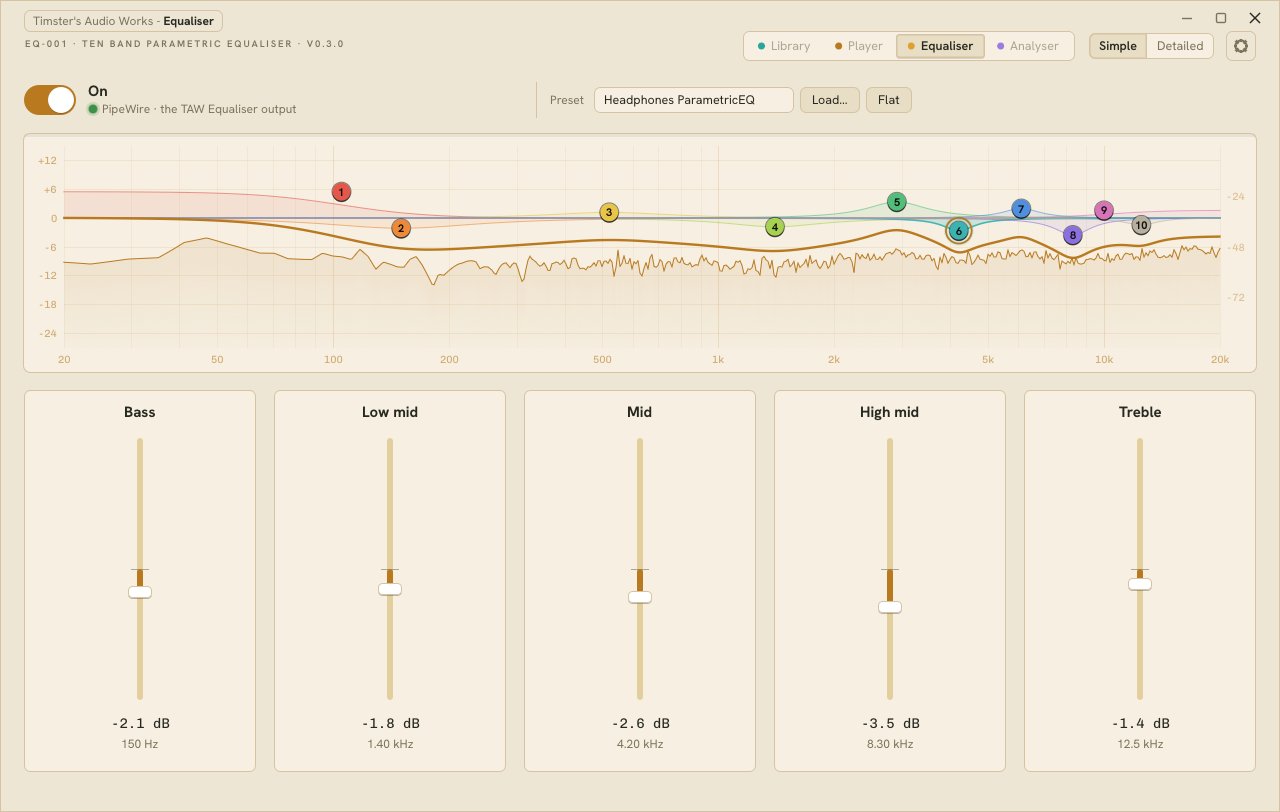
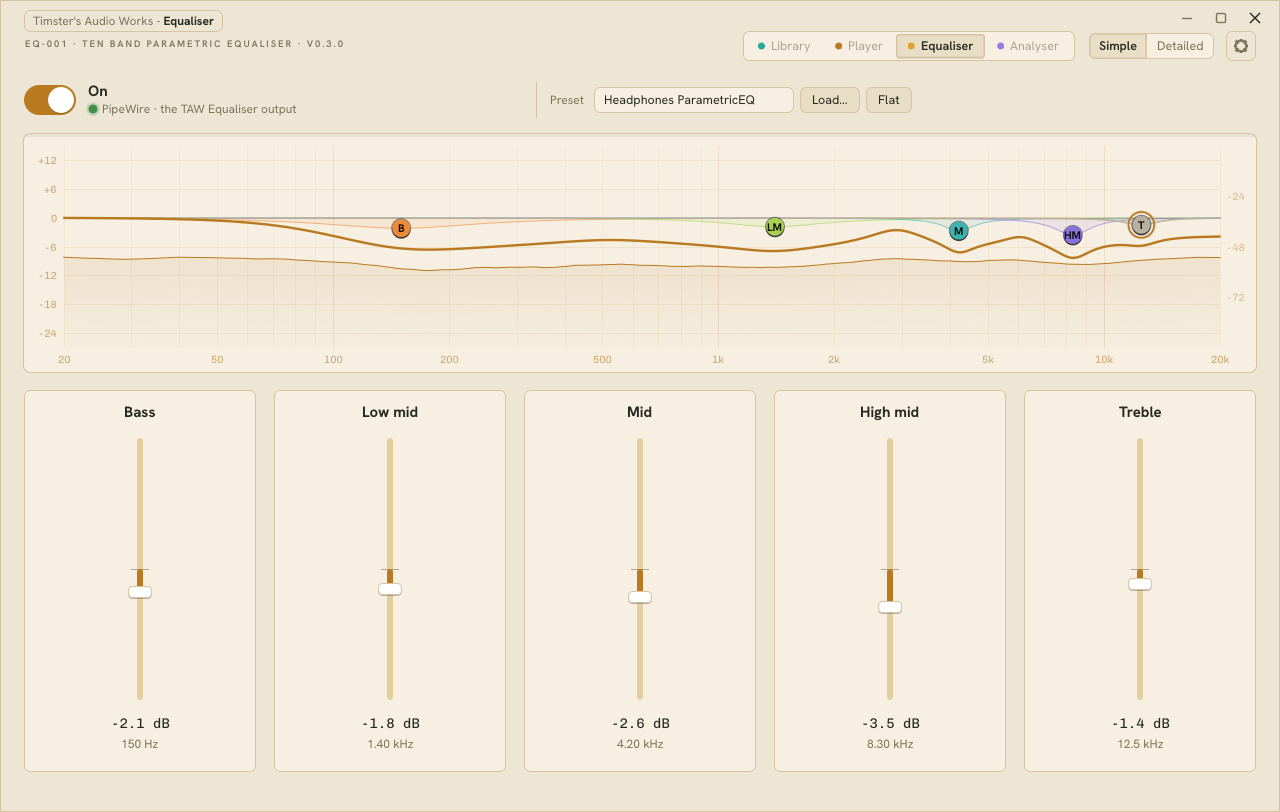
Gentler Auto preamp; Simple's graph shows only its five controls
- Auto preamp cut by the full height of any boost, so +6 dB at 16 kHz
  cost 6 dB everywhere. It now allows for the treble's headroom (none to
  2 kHz, then 3 dB an octave to 9 dB at 16 kHz: music's loud moments fall
  about that fast), so a treble lift costs little or nothing while bass
  and mid boosts are cut in full. Lifts for cut-only curves stay exact.
  It still depends only on the bands, and now settles when the mouse
  button is let go rather than at every step of a drag.
- Simple's graph shows only the five tone bands, named B, LM, M, HM and T,
  moving by gain alone (±12 dB, no Q or on/off); the total curve still
  includes every band. Its spectrum is smoothed over a third of an octave
  and moves more calmly.

Claude-Session: https://claude.ai/code/session_013QMTWfnBg92v7gTQTG2Jq5

diff --git a/src/ui/graph.rs b/src/ui/graph.rs
@@ -88,8 +88,12 @@ pub fn graph(
     sample_rate: f32,
     analyzer: Option<&Analyzer>,
     analyser_style: Option<spectrum::Style>,
+    // Simple view: only these bands (name, band) show and move, by gain
+    // alone, and the spectrum is smoothed.
+    tone: Option<&[(&str, usize)]>,
     t: &Tokens,
 ) -> GraphResult {
+    let shown = |i: usize| tone.is_none_or(|bands| bands.iter().any(|&(_, b)| b == i));
     let mut result = GraphResult { changed: None };
     hifi::display(ui.painter(), rect, t);
     let p = ui.painter().with_clip_rect(rect);
@@ -189,6 +193,18 @@ pub fn graph(
             levels.push(((db - SPEC_BOTTOM) / (SPEC_TOP - SPEC_BOTTOM)).clamp(0.0, 1.0));
             x += 2.0;
         }
+        if tone.is_some() {
+            // A third of an octave either side, so it reads as a shape.
+            let half = (plot.width() / (FREQ_MAX / FREQ_MIN).log2() / 3.0 / 2.0) as usize;
+            let raw: Vec<f32> = pts.iter().map(|p| p.y).collect();
+            let raw_levels = levels.clone();
+            for i in 0..pts.len() {
+                let (a, b) = (i.saturating_sub(half), (i + half + 1).min(pts.len()));
+                let n = (b - a) as f32;
+                pts[i].y = raw[a..b].iter().sum::<f32>() / n;
+                levels[i] = raw_levels[a..b].iter().sum::<f32>() / n;
+            }
+        }
         // Nothing to draw in silence but a line along the floor.
         let heard = levels.iter().any(|&l| l > 0.0);
         match analyser_style {
@@ -231,7 +247,14 @@ pub fn graph(
     let mut total = vec![s.preamp_db as f64; freqs.len()];
     for (bi, c) in coeffs.iter().enumerate() {
         let b = &s.bands[bi];
-        if !b.enabled || (b.kind.has_gain() && b.gain_db.abs() < 0.05) {
+        let hidden = !shown(bi);
+        if hidden || !b.enabled || (b.kind.has_gain() && b.gain_db.abs() < 0.05) {
+            // A hidden band still counts in the total.
+            if hidden {
+                for (i, &f) in freqs.iter().enumerate() {
+                    total[i] += c.magnitude_db(f, fs);
+                }
+            }
             continue;
         }
         let col = BAND_COLOURS[bi];
@@ -307,7 +330,7 @@ pub fn graph(
             .input(|i| i.pointer.press_origin())
             .or(resp.interact_pointer_pos())
         {
-            if let Some(i) = nearest(&ax, s, *selected, pos) {
+            if let Some(i) = nearest(&ax, s, *selected, pos, &shown) {
                 *selected = i;
                 let grab = ax.node(&s.bands[i]) - pos;
                 ui.data_mut(|d| d.insert_temp(drag_id, (i, grab)));
@@ -322,6 +345,11 @@ pub fn graph(
             let fine = ui.input(|i| i.modifiers.shift);
             let target = pos + grab;
             let b = &mut s.bands[i];
+            let (gmin, gmax) = if tone.is_some() {
+                (-12.0, 12.0)
+            } else {
+                (GAIN_MIN_DB, GAIN_MAX_DB)
+            };
             let (nf, ng) = if fine {
                 let d = resp.drag_delta() * 0.15;
                 (
@@ -331,9 +359,14 @@ pub fn graph(
             } else {
                 (ax.f(target.x), ax.db(target.y))
             };
-            let nf = snap3(nf.clamp(FREQ_MIN, FREQ_MAX));
+            // Simple's tone controls stay where they are and only lift or cut.
+            let nf = if tone.is_some() {
+                b.freq
+            } else {
+                snap3(nf.clamp(FREQ_MIN, FREQ_MAX))
+            };
             let ng = if b.kind.has_gain() {
-                ((ng * 10.0).round() / 10.0).clamp(GAIN_MIN_DB, GAIN_MAX_DB)
+                ((ng * 10.0).round() / 10.0).clamp(gmin, gmax)
             } else {
                 // Moving a cut filter's point up or down changes nothing.
                 b.gain_db
@@ -349,7 +382,7 @@ pub fn graph(
     if resp.drag_stopped() {
         ui.data_mut(|d| d.remove::<(usize, Vec2)>(drag_id));
     }
-    let hovered_node = pointer.and_then(|pos| nearest(&ax, s, *selected, pos));
+    let hovered_node = pointer.and_then(|pos| nearest(&ax, s, *selected, pos, &shown));
     if resp.clicked() {
         if let Some(i) = hovered_node {
             *selected = i;
@@ -361,14 +394,14 @@ pub fn graph(
             result.changed = Some(i);
         }
     }
-    if resp.secondary_clicked() {
+    if resp.secondary_clicked() && tone.is_none() {
         if let Some(i) = hovered_node {
             s.bands[i].enabled = !s.bands[i].enabled;
             *selected = i;
             result.changed = Some(i);
         }
     }
-    if resp.hovered() {
+    if resp.hovered() && tone.is_none() {
         let scroll = wheel(ui);
         if scroll != 0.0 {
             let i = hovered_node.unwrap_or(*selected);
@@ -392,8 +425,23 @@ pub fn graph(
     }
 
     // Points, selected one last so it sits on top.
-    let mut order: Vec<usize> = (0..NUM_BANDS).filter(|&i| i != *selected).collect();
-    order.push(*selected);
+    let mut order: Vec<usize> = (0..NUM_BANDS)
+        .filter(|&i| i != *selected && shown(i))
+        .collect();
+    if shown(*selected) {
+        order.push(*selected);
+    }
+    // Simple names its points: B, LM, M, HM, T.
+    let name = |i: usize| -> String {
+        match tone.and_then(|bands| bands.iter().find(|&&(_, b)| b == i)) {
+            Some((n, _)) => n
+                .split_whitespace()
+                .filter_map(|w| w.chars().next())
+                .collect::<String>()
+                .to_uppercase(),
+            None => (i + 1).to_string(),
+        }
+    };
     for &i in &order {
         let b = &s.bands[i];
         let c = ax.node(b);
@@ -415,7 +463,7 @@ pub fn graph(
                 &p,
                 c,
                 Align2::CENTER_CENTER,
-                &(i + 1).to_string(),
+                &name(i),
                 hifi::bold(11.0),
                 Color32::from_rgb(0x14, 0x10, 0x0e),
                 0.0,
@@ -427,7 +475,7 @@ pub fn graph(
                 &p,
                 c,
                 Align2::CENTER_CENTER,
-                &(i + 1).to_string(),
+                &name(i),
                 hifi::bold(11.0),
                 col,
                 0.0,
@@ -447,15 +495,19 @@ pub fn graph(
         } else {
             String::new()
         };
-        let label = format!(
-            "{} {} · {} Hz{} · Q {:.2}{}",
-            i + 1,
-            kind_name(b.kind),
-            fmt_freq(b.freq).replace('K', "k"),
-            gain,
-            b.q,
-            if b.enabled { "" } else { " · off" }
-        );
+        let hz = fmt_freq(b.freq).replace('K', "k");
+        let label = match tone.and_then(|bands| bands.iter().find(|&&(_, x)| x == i)) {
+            Some((n, _)) => format!("{n} · {hz} Hz{gain}"),
+            None => format!(
+                "{} {} · {} Hz{} · Q {:.2}{}",
+                i + 1,
+                kind_name(b.kind),
+                hz,
+                gain,
+                b.q,
+                if b.enabled { "" } else { " · off" }
+            ),
+        };
         let f = hifi::ui_font(12.5);
         let w = p.layout_no_wrap(label.clone(), f.clone(), t.text).size().x + 18.0;
         let c = ax.node(b);
@@ -510,9 +562,15 @@ pub fn kind_name(k: crate::dsp::FilterKind) -> &'static str {
 
 /// The band point under `pos`; the selected band wins ties so stacked
 /// points stay reachable.
-fn nearest(ax: &Axes, s: &EqSettings, selected: usize, pos: Pos2) -> Option<usize> {
+fn nearest(
+    ax: &Axes,
+    s: &EqSettings,
+    selected: usize,
+    pos: Pos2,
+    shown: &impl Fn(usize) -> bool,
+) -> Option<usize> {
     let mut best: Option<(usize, f32)> = None;
-    for i in 0..NUM_BANDS {
+    for i in (0..NUM_BANDS).filter(|&i| shown(i)) {
         let d = ax.node(&s.bands[i]).distance(pos) - if i == selected { 2.0 } else { 0.0 };
         if d <= NODE_R + 4.0 && best.is_none_or(|(_, bd)| d < bd) {
             best = Some((i, d));

diff --git a/crates/eq-core/src/dsp.rs b/crates/eq-core/src/dsp.rs
@@ -314,6 +314,24 @@ pub fn total_response_db(bands: &[BandParams], preamp_db: f32, freq: f64, sample
 /// in dB, between 20 Hz and 20 kHz. Each band's own frequency is checked
 /// too, so a narrow peak is never missed between sample points.
 pub fn peak_response_db(bands: &[BandParams], sample_rate: f64) -> f64 {
+    peak_over_allowance_db(bands, sample_rate, |_| 0.0)
+}
+
+/// How far above 0 dB the response may rise at `freq` before Auto preamp
+/// turns the level down for it, in dB. Music's loud moments carry much less
+/// in the top octaves than in the bass and mids (they fall about 3 dB an
+/// octave, like pink noise), so a treble boost has room that a bass boost
+/// doesn't: none up to 2 kHz, then 3 dB an octave, to 9 dB at 16 kHz.
+pub fn headroom_allowance_db(freq: f64) -> f64 {
+    (3.0 * (freq / 2000.0).log2()).clamp(0.0, 9.0)
+}
+
+/// The highest point of the response less `allowance` at each frequency.
+fn peak_over_allowance_db(
+    bands: &[BandParams],
+    sample_rate: f64,
+    allowance: impl Fn(f64) -> f64,
+) -> f64 {
     const POINTS: usize = 240;
     let coeffs: Vec<Coeffs> = bands
         .iter()
@@ -328,15 +346,23 @@ pub fn peak_response_db(bands: &[BandParams], sample_rate: f64) -> f64 {
         .filter(|f| (lo..=hi).contains(f));
     sweep
         .chain(centres)
-        .map(at)
+        .map(|f| at(f) - allowance(f))
         .fold(f64::NEG_INFINITY, f64::max)
 }
 
-/// The preamp that brings the response's highest point to 0 dB: a cut when
-/// the bands boost, a lift when they only cut. Within the preamp's range,
-/// to 0.1 dB.
+/// The preamp that keeps music out of clipping. When the bands boost, it cuts
+/// just enough to bring the response to 0 dB, less the treble's headroom
+/// ([`headroom_allowance_db`]), so a treble lift costs little or nothing.
+/// When they only cut, it lifts the highest point to exactly 0 dB, as before.
+/// It depends only on the bands, never on the sound, so it moves only when
+/// they do. Within the preamp's range, to 0.1 dB.
 pub fn auto_preamp_db(bands: &[BandParams], sample_rate: f64) -> f32 {
-    let p = -peak_response_db(bands, sample_rate) as f32;
+    let lift = -peak_response_db(bands, sample_rate);
+    let p = if lift >= 0.0 {
+        lift
+    } else {
+        (-peak_over_allowance_db(bands, sample_rate, headroom_allowance_db)).min(0.0)
+    } as f32;
     // (+ 0.0 turns -0.0 into 0.0, so the readout never shows "-0.0".)
     ((p * 10.0).round() / 10.0).clamp(PREAMP_MIN_DB, PREAMP_MAX_DB) + 0.0
 }
@@ -678,6 +704,28 @@ mod tests {
             (auto_preamp_db(&narrow, FS) + 12.0).abs() < 0.11,
             "narrow peak"
         );
+    }
+
+    #[test]
+    fn auto_preamp_leaves_room_for_treble() {
+        let mut b = default_bands();
+        // Band 10: a high shelf at 16 kHz.
+        b[9].gain_db = 6.0;
+        assert_eq!(auto_preamp_db(&b, FS), 0.0, "a treble lift needs no cut");
+        b[9].gain_db = 12.0;
+        let p = auto_preamp_db(&b, FS);
+        assert!((-6.0..-2.0).contains(&p), "a big one needs some: {p}");
+        // Still never above the allowance anywhere.
+        for i in 0..200 {
+            let f = 20.0 * 1000f64.powf(i as f64 / 199.0);
+            assert!(total_response_db(&b, p, f, FS) <= headroom_allowance_db(f) + 0.11);
+        }
+        // Bass and mids get no allowance: the same as before.
+        let mut bass = default_bands();
+        bass[1].gain_db = 6.0;
+        assert!((auto_preamp_db(&bass, FS) + 6.0).abs() < 0.11);
+        assert_eq!(headroom_allowance_db(1000.0), 0.0);
+        assert!((headroom_allowance_db(16_000.0) - 9.0).abs() < 1e-9);
     }
 
     #[test]

diff --git a/src/ui/app.rs b/src/ui/app.rs
@@ -826,6 +826,7 @@ impl EqApp {
             rate,
             (self.s.analyser && self.running.is_some()).then_some(&self.analyzer),
             style,
+            self.s.simple.then_some(&TONE[..]),
             t,
         );
         if let Some(i) = res.changed {
@@ -1411,6 +1412,9 @@ impl eframe::App for EqApp {
         let dt = ui.input(|i| i.stable_dt).min(0.1);
         self.update_meters(dt);
         if self.s.analyser {
+            // Simple's spectrum moves more calmly.
+            self.analyzer.ballistics.rise_ms = if self.s.simple { 120.0 } else { 0.0 };
+            self.analyzer.ballistics.fall_ms = if self.s.simple { 700.0 } else { 215.0 };
             self.analyzer.update();
             // `active` only says whether samples came in since the last
             // frame, and audio comes in blocks that can be longer than a
@@ -1492,12 +1496,14 @@ impl eframe::App for EqApp {
         }
 
         // Simple has no preamp control, so Auto always looks after it there;
-        // only Detailed can turn Auto off. Worked out last, so the audio
-        // never gets this frame's bands with last frame's preamp.
+        // only Detailed can turn Auto off. It settles when the mouse button
+        // is let go, so a boost is heard while it's dragged rather than
+        // cancelled out step by step, and isn't worked out on every frame
+        // of a drag.
         if self.s.simple {
             self.s.auto_preamp = true;
         }
-        if self.s.auto_preamp {
+        if self.s.auto_preamp && !ui.input(|i| i.pointer.any_down()) {
             self.s.preamp_db = auto_preamp_db(&self.s.bands, 48_000.0);
         }
         self.shared.store(&self.settings());

diff --git a/README.md b/README.md
@@ -21,7 +21,7 @@ Get the latest version from the [Releases page](https://github.com/TimsterAudio/
 
 - **10 bands.** Each band is a **peak** (bell), **low shelf** or **high shelf**, with its own on switch. Presets with **high-pass**, **low-pass** or **notch** filters still load and play, and those bands show their type.
 - **Simple or Detailed.** Simple has five tone sliders (Bass, Low mid, Mid, High mid, Treble) and the preset. Detailed has all ten band cards, the preamp and the meters.
-- **Gain from +12 dB to −24 dB**, frequency from 20 Hz to 20 kHz, and **Q from 0.1 to 20**, plus a **preamp** (+12 / −24 dB) with **Auto** (on by default: it keeps the response's peak at 0 dB so nothing clips, and is always on in Simple) and **Bypass** for A/B checks.
+- **Gain from +12 dB to −24 dB**, frequency from 20 Hz to 20 kHz, and **Q from 0.1 to 20**, plus a **preamp** (+12 / −24 dB) with **Auto** (on by default, and always on in Simple: it turns the preamp down just enough for your boosts to stay out of clipping, allowing for the treble's extra headroom) and **Bypass** for A/B checks.
 - **Loads APO-format EQ presets**, such as AutoEQ's `ParametricEQ.txt` files. It reads `Preamp:` and `Filter:` lines with the `PK`, `LS`/`LSC`, `HS`/`HSC`, `HP`/`HPQ`, `LP`/`LPQ` and `NO` types, `Fc`, `Gain`, `Q` or `BW Oct`, and `ON`/`OFF`. It **saves** presets in the same format.
 - **Response graph:** each band's curve in its own colour, the overall response over them in the display's ink, and a live **spectrum analyser** of the output behind both, in the display's ink or a choice of colour schemes. Drag a band's point to set its frequency and gain, and scroll over it to change Q.
 - **Audio systems:**
@@ -76,7 +76,7 @@ In an ASIO build, choose **ASIO** under **System** in Settings, then pick your i
 | Knobs and faders | Drag up or down (or left/right). Hold **Shift** for fine control. Scroll to step. Double-click to reset. With a control focused, the arrow keys adjust it (**Shift** for fine). |
 | Graph points | Drag to set frequency and gain (**Shift** for fine). Scroll for Q. Double-click for 0 dB. Right-click to switch the band on or off. |
 | Filter type | Each band card's menu: **Peak**, **Low shelf** or **High shelf**. A band loaded from a preset as high-pass, low-pass or notch shows that type; those have no gain, so the card says "No gain, fixed slope" instead of a fader. |
-| Preamp | **Auto** (on by default) keeps the response's highest point at 0 dB as you change the bands. Moving the preamp slider takes over from it. Simple always uses Auto; turn it off in Detailed. |
+| Preamp | **Auto** (on by default) turns the preamp down for your boosts, so music stays out of clipping. A boost in the bass or mids is cut in full; the treble has more headroom, because music carries far less up there, so a treble lift costs little or nothing (none up to 2 kHz, rising 3 dB an octave to 9 dB at 16 kHz). It follows the bands, never the music, and settles when you let go of the mouse. When the bands only cut, it lifts the highest point to 0 dB. Moving the preamp slider takes over from it. Simple always uses Auto; turn it off in Detailed. |
 | Keys | **Space**: bypass · **Ctrl+O**: load preset · **Ctrl+S**: save preset |
 | Presets | **Load…** / **Save…** buttons, drop a preset file on the window, or pass one on the command line: `taw-equaliser "HD 600 ParametricEQ.txt"`. |
 | Flat / Reset | **Flat** sets every gain and the preamp to 0 dB. **Reset** also restores the default band layout. |

diff --git a/docs/DESIGN.md b/docs/DESIGN.md
@@ -15,11 +15,11 @@ The Equaliser uses the TAW hi-fi look shared by the Library, Player and Analyser
 - **Controls row, about 82–118:**
   - the **On switch** (starts and stops the audio) with "On" or "Off" and a status line: where it's working, or what's wrong (amber). Clicking the status opens the audio settings.
   - **Preset:** the preset's name, Load…, Save…, Flat, Reset and **Bypass** (filled with the accent while bypassed; Space toggles it). Simple shows Load… and Flat only.
-  - **Preamp:** a slider, its value and an **Auto** switch (Detailed only). Auto is on by default. Simple has no preamp control, so Auto is always on there: only Detailed can turn it off. Moving the slider takes over from Auto.
+  - **Preamp:** a slider, its value and an **Auto** switch (Detailed only). Auto is on by default. It cuts for boosts less the treble's headroom (`eq_core::dsp::headroom_allowance_db`: none to 2 kHz, then 3 dB an octave to 9 dB at 16 kHz), lifts to exactly 0 dB when the bands only cut, follows the bands and never the sound, and settles when the mouse button is let go. Simple has no preamp control, so Auto is always on there: only Detailed can turn it off. Moving the slider takes over from Auto.
   - **In** and **Out** meters, left and right (Detailed only), in the classic LED colours or the display's ink (Settings).
 - **Response graph, 134–402 (Simple: 134–372):** the display window. The total response in the display's ink, each active band's curve and fill in its colour, the spectrum faintly behind (optional; shown, with its dB scale on the right, the whole time audio is on, and falling away when the sound stops), and the numbered band points. The selected point has a ring in the ink; hovering or dragging a point shows a tag with its type, frequency, gain and Q.
 - **Detailed: ten band cards, 418 to the footer.** Each card: the band's colour dot and number, an on switch, the filter type menu (Peak, Low shelf, High shelf; a band loaded with high-pass, low-pass or notch shows that too), a vertical gain fader (0 dB tick; the fill runs from 0 dB to the gain in the accent), the gain value, and small Hz and Q knobs. High-pass, low-pass and notch have no gain, so their card says "No gain, fixed slope" instead of a fader. The selected band's card is outlined in the accent.
-- **Simple: five tone sliders,** Bass, Low mid, Mid, High mid and Treble (bands 2, 4, 6, 8 and 10 of the same ten, ±12 dB), each with its gain and frequency. Switching back to Detailed shows exactly what they changed.
+- **Simple: five tone sliders,** Bass, Low mid, Mid, High mid and Treble (bands 2, 4, 6, 8 and 10 of the same ten, ±12 dB), each with its gain and frequency. The graph shows only those five, as points named B, LM, M, HM and T that move up and down (gain only, ±12 dB; no Q or on/off), while the total curve still includes every band; the spectrum is smoothed over a third of an octave and moves more calmly (120 ms rise, 700 ms fall). Switching back to Detailed shows exactly what they changed.
 - **Footer:** the mouse and key hints (Detailed) on the left; the last change or a message on the right.
 
 ## Settings drawer

diff --git a/CHANGELOG.md b/CHANGELOG.md
@@ -4,6 +4,8 @@
 
 - **The spectrum no longer flickers.** It and its dB scale on the right blinked off whenever a screen refresh came between two blocks of audio, and vanished altogether on Windows' system-wide engine while nothing played. They now stay up the whole time audio is on, and the spectrum falls away when the sound stops.
 - **Auto preamp is on by default**, so a boost can't clip (turned on once for settings saved by 0.3.0). **Simple always uses Auto**: it worked out the preamp only in Detailed before, so Simple's tone sliders could overload. Turn Auto off in Detailed.
+- **Auto preamp is gentler.** It cut the level by the full height of any boost, wherever it was, so +6 dB at 16 kHz cost 6 dB everywhere. Music carries far less in the treble, so it now allows for that headroom: +6 dB at 16 kHz needs no cut, +12 dB there needs 3 dB, and +6 dB at 4 kHz about 3 dB; boosts in the bass and mids are cut in full as before. It still only follows the bands, never the music, and now settles when you let go of the mouse rather than at every step of a drag.
+- **Simple's graph shows only its five tone controls**, named B, LM, M, HM and T, which move up and down; the total curve still includes every band. Its spectrum is smoothed and moves more calmly.
 - **The window resizes from its bottom corners** too, and every time (TAW-Panel 0.3.2).
 - The family's tighter look (TAW-Panel 0.4.0): the nameplate is the badge and model line without the big EQUALISER, the top band is shorter (the graph gets the room), corners are tighter, and the chosen half of Simple / Detailed stands out.
 - **Meter colours** in Settings: Classic (green, yellow, red) or Display (the display's ink). Settings' spectrum options are now under **Display**.

diff --git a/HANDOFF.md b/HANDOFF.md
@@ -16,6 +16,8 @@ Passed: Bypass, settings kept after a restart, the Simple sliders. Feedback, and
 - **README out of date (LPF, HPF, notch).** Already fixed on `main` by PR #3; the test used the old README.
 - **Auto preamp on by default, and always on in Simple.** Done: `Saved::auto_preamp` defaults to true, and the new `settings_version` turns it on once for 0.3.0 settings. Simple forces Auto on (only Detailed can turn it off); Auto is now worked out each frame just before the settings reach the audio, which also fixes Simple, where it was never worked out at all.
 - **Bottom corners don't resize.** Fixed by TAW-Panel 0.3.2 (in the 0.4.0 pin).
+- **Auto preamp too aggressive** (second round, same day): it cut by the full height of any boost, even +6 dB at 16 kHz. Now `auto_preamp_db` allows the treble's headroom (`headroom_allowance_db`: 0 to 2 kHz, +3 dB an octave, 9 dB at 16 kHz) when cutting; lifts stay exact; it settles on mouse release. If the user wants it stricter or looser, the allowance curve is the one knob.
+- **Simple's graph showed all ten bands:** now only the five tone bands (B, LM, M, HM, T; gain only, ±12 dB), with a smoothed, slower spectrum.
 - **Connecting to the right outputs isn't obvious.** Not built yet: options put to the user (see ROADMAP 0.4.0 / 0.5.0); waiting on their choice.
 
 Also with the 0.4.0 pin: the shorter nameplate (no EQUALISER), the top band at the Player's height (plate 66, key row 46; the controls row and graph move up 28 and the graph gets the room), Meter colours in Settings (a new `Display` section), and new README screenshots.
